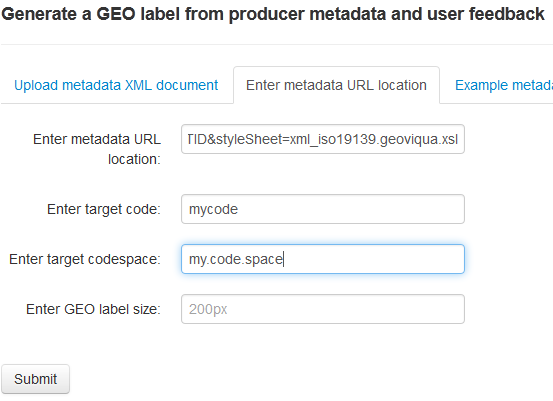
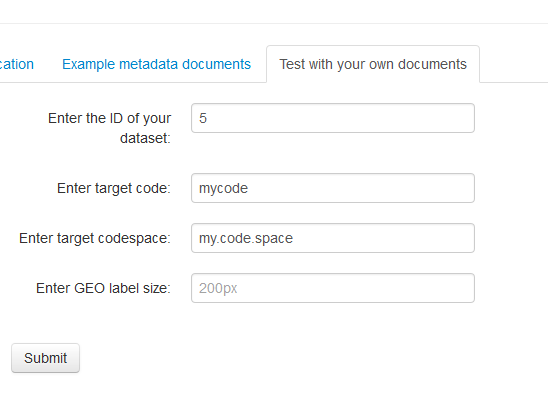
Updated GEO Label tutorial.

diff --git a/index.html b/index.html
@@ -483,31 +483,47 @@
   <br />
   <h4 id="t3s2">Step 2: Construct a GEO label from your own documents and feedback</h4>
 
-  <p>You can also specify your own URLs, codes and codespaces, or even upload a local document, using the different tabs. You can now build your own GEO label from the producer document you published in <a class="smooth" href="#producer">tutorial 1</a> and the feedback you generated in <a class="smooth" href="#user">tutorial 2</a>.</p>
+  <p>You can also specify your own URLs, codes and codespaces, or even upload a local document, using the different tabs. You can now build your own GEO label from the producer document you published in tutorial 1 and the feedback you generated in tutorial 2.</p>
 
   <br />
   <div class="row">
     <div class="span8">
       <p>
         <i class="icon-info-sign icon-large pull-left"></i>
-        First, generate the URL for your metadata document. This can be the URL of a traditional ISO document, e.g. our <a href="http://schemas.geoviqua.org/GVQ/4.0/example_documents/19139/DigitalClimaticAtlas19139.xml" target="_blank">example metadata document <i class="icon-external-link" style="text-decoration: none;"></i></a>
-        <br /><br />
-        Even better, it can be a query to retrieve the GeoViQua compliant document from GeoNetwork, e.g. <a href="javascript:void(0)">http://uncertdata.aston.ac.uk:8080/geonetwork/srv/eng/xml_geoviqua?id=<strong>YOURDATSETID</strong>&amp;styleSheet=xml_iso19139.geoviqua.xsl</a> 
-        <div class="alert alert-info">
-          Replace &lsquo;<strong>YOURDATASETID</strong>&rsquo; with the numeric ID that you recorded in <a class="smooth" href="#t1s3">step 3</a> of tutorial 1.
-        </div>
+        First, copy the URL for your metadata document. This can be the URL of a traditional ISO document, e.g. our <a href="http://schemas.geoviqua.org/GVQ/4.0/example_documents/19139/DigitalClimaticAtlas19139.xml" target="_blank">example metadata document <i class="icon-external-link" style="text-decoration: none;"></i></a> or a <a href="http://schemas.geoviqua.org/GVQ/4.0/example_documents/PQMs/DigitalClimaticAtlas_mt_an_v10.xml" target="_blank">GeoViQua-transformed document <i class="icon-external-link" style="text-decoration: none;"></i></a>
       </p>
       <p>
-        <i class="icon-info-sign icon-large pull-left"></i>
-        Paste this URL into the top text box on the &lsquo;Enter metadata URL location&rsquo; tab at <a href="http://uncertgeo.aston.ac.uk/geolabel/silex/web/geolabel.html" target="_blank">http://uncertgeo.aston.ac.uk/geolabel/silex/web/geolabel.html <i class="icon-external-link" style="text-decoration: none;"></i></a> and supply your own code and codespace values from <a class="smooth" href="#t2s1">step 1</a> of tutorial 2.
+        Visit <a href="http://uncertgeo.aston.ac.uk/geolabel/silex/web/geolabel.html" target="_blank">The GEO label website <i class="icon-external-link" style="text-decoration: none;"></i></a> again and paste this URL into the top text box on the &lsquo;Enter metadata URL location&rsquo; tab</a>, ensuring that you enter your own code and codespace values from step 1 of tutorial 2.
       </p>
-      <p>
-        <i class="icon-info-sign icon-large pull-left"></i>
+      <div class="alert alert-success">
         Now click &lsquo;Submit&rsquo; and you should get your very own GEO label! Explore and experiment to see how different labels are returned from different datasets.
-      </p>
+      </div>
     </div>
     <div class="span4">
       <a class="fancy" href="img/tutorial/g4.png"><img src="img/tutorial/g4.png" class="img-polaroid" /></a>
+    </div>
+  </div>
+
+  <br />
+  <div class="row">
+    <div class="span8">
+      <p>
+        <i class="icon-info-sign icon-large pull-left"></i>
+        Even better, we can generate a GEO label for the GeoViQua compliant document that we transformed and stored in GeoNetwork earlier.
+      </p>
+      <p>
+        Visit <a href="http://uncertgeo.aston.ac.uk/geolabel/silex/web/geolabel.html" target="_blank">The GEO label website <i class="icon-external-link" style="text-decoration: none;"></i></a> once more, navigate to the &lsquo;Test with your own documents&rsquo; tab and enter the numeric ID of your published dataset that you recorded during step 3 of tutorial 1.
+      </p>
+      <div class="alert alert-warning">
+        Don't forget to re-enter your own code and codespace values before clicking &lsquo;Submit&rsquo;!
+      </div>
+      <div class="alert alert-info">
+        You could also submit your document manually by following the previous example and using the URL <a href="javascript:void(0)">http://uncertdata.aston.ac.uk:8080/geonetwork/srv/eng/xml_geoviqua?id=<strong>YOURDATSETID</strong>&amp;styleSheet=xml_iso19139.geoviqua.xsl</a>,
+        replacing &lsquo;<strong>YOURDATASETID</strong>&rsquo; with the numeric ID.
+      </div>
+    </div>
+    <div class="span4">
+      <a class="fancy" href="img/tutorial/g5.png"><img src="img/tutorial/g5.png" class="img-polaroid" /></a>
     </div>
   </div>
 
